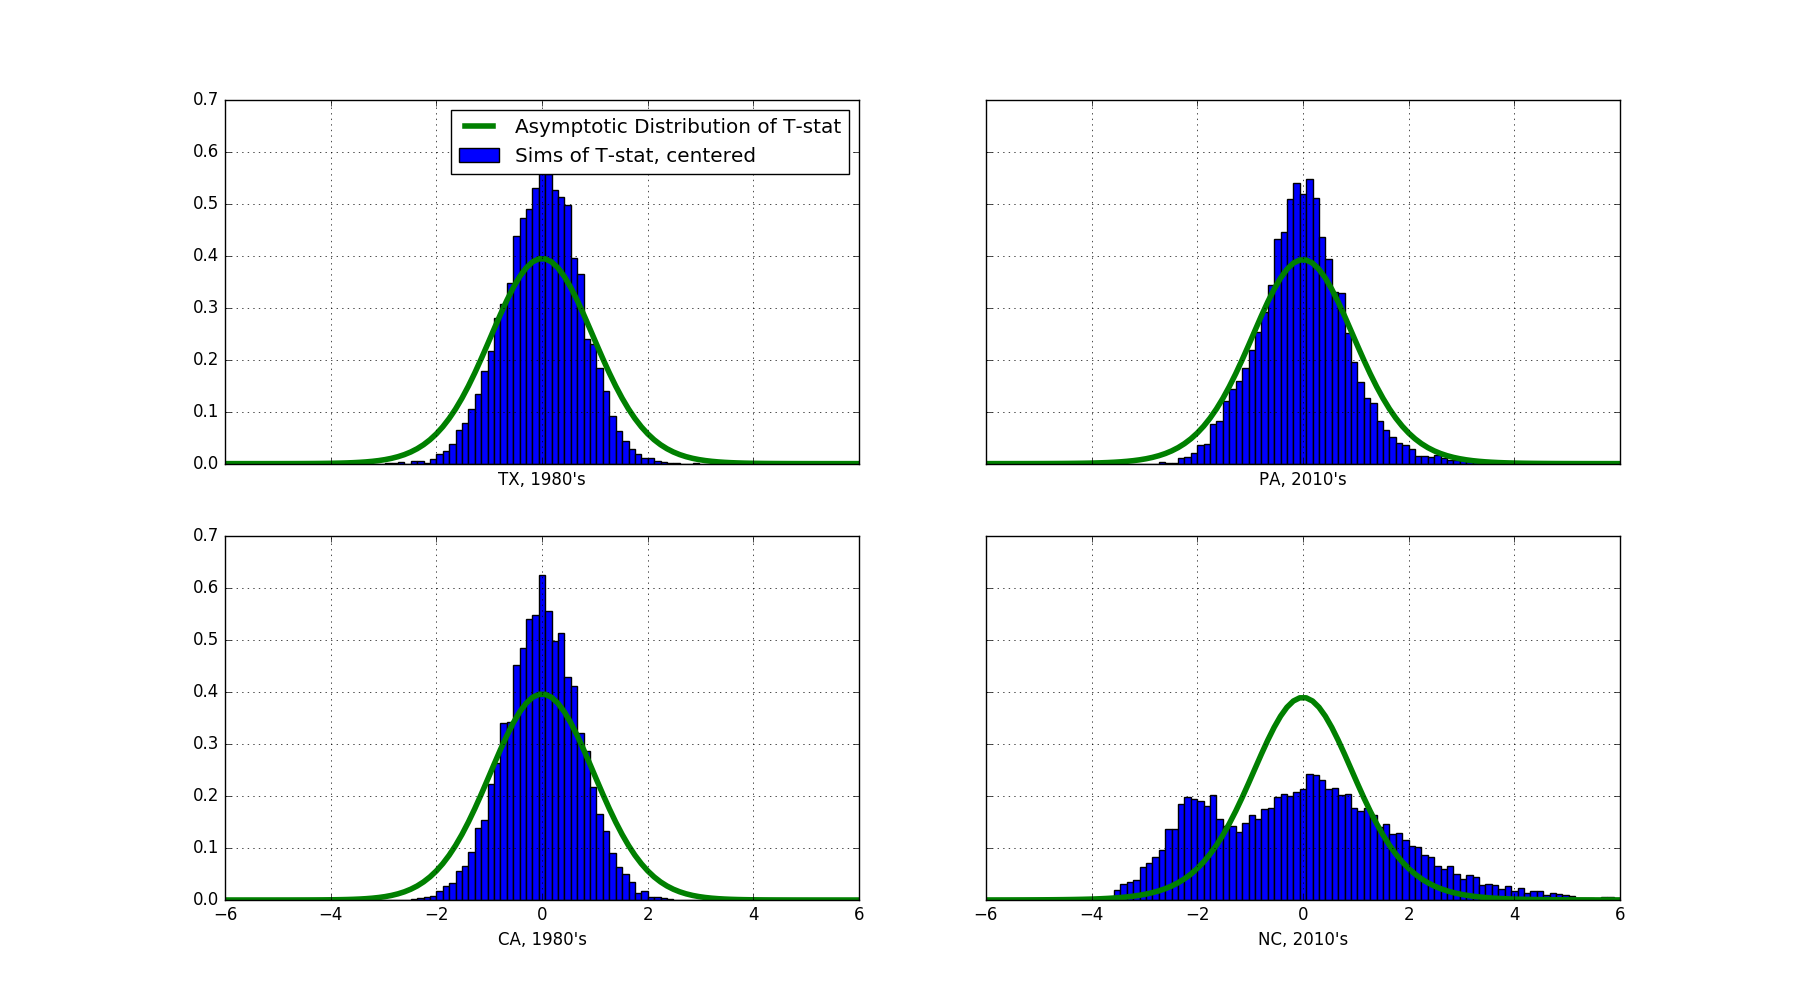
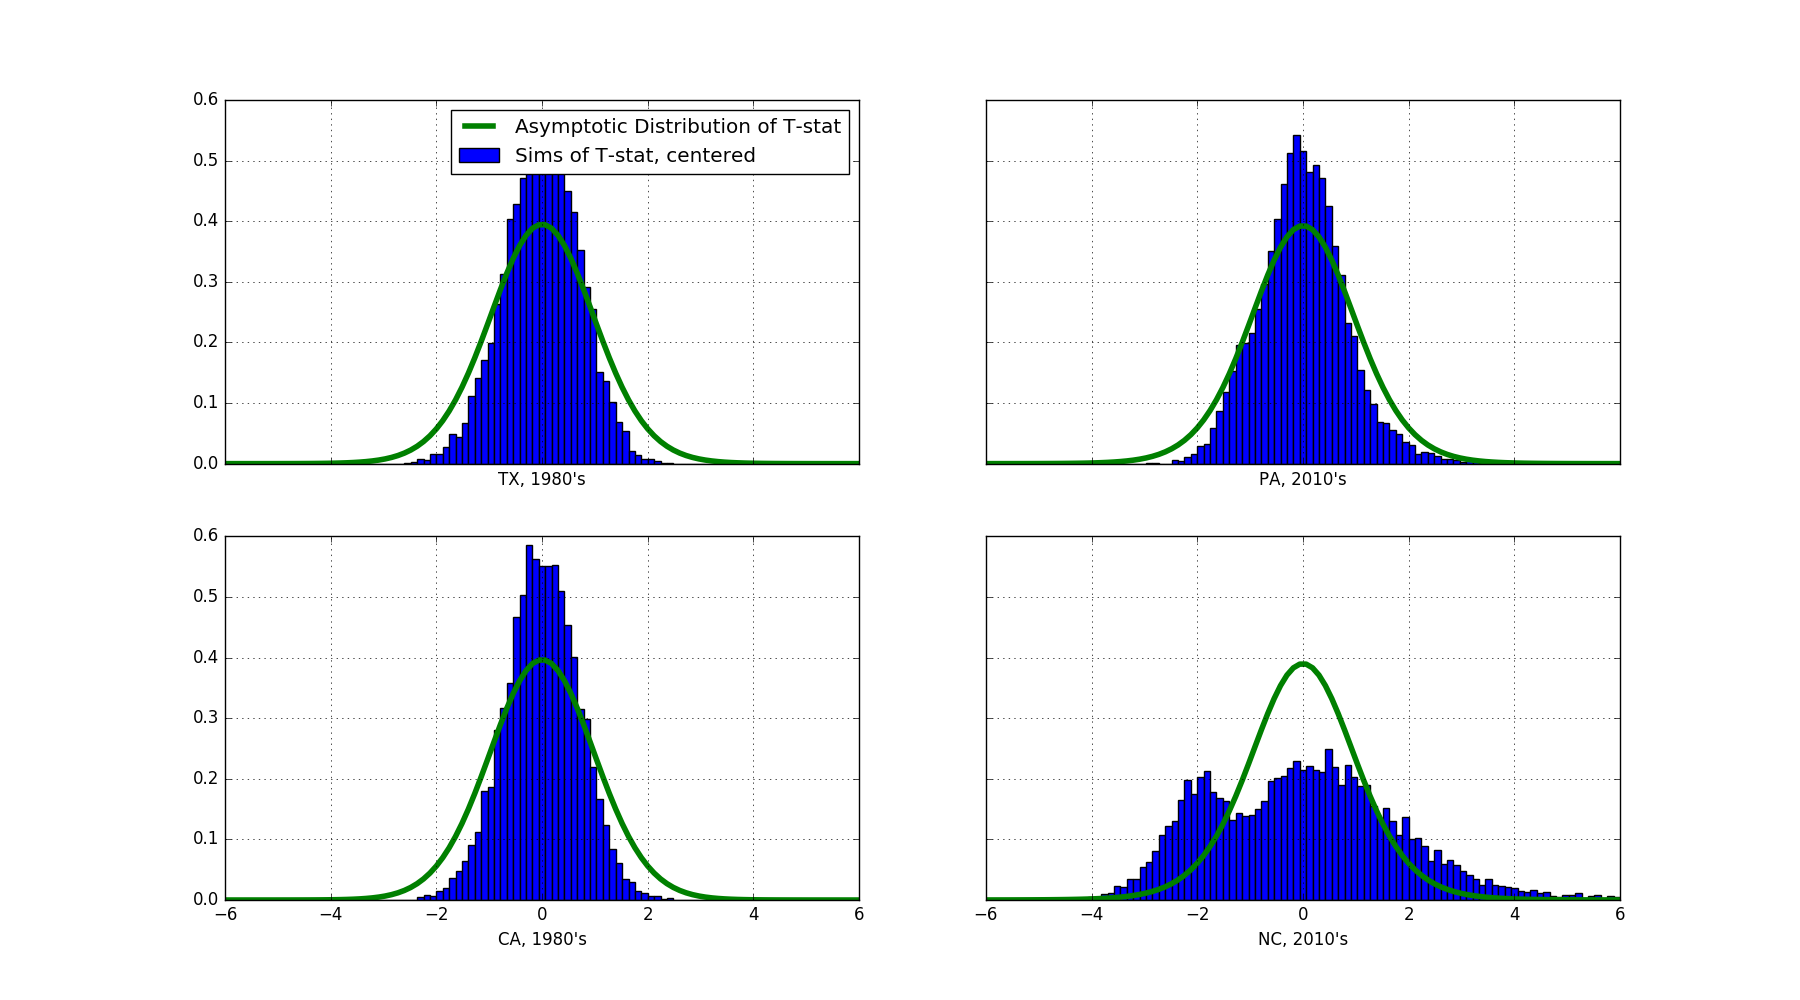
tinkering with district partisanship likelihoods

diff --git a/ELJ/ComputeExpectedMM.py b/ELJ/ComputeExpectedMM.py
@@ -8,7 +8,7 @@ import os
 import us
 from scipy import stats
 
-from ELJcommon import getDemVotesAndSeats,get_spasym,get_asymFromPct,getExpAsym,varWithShrinkage,betaMOM,list2df,colorBins,getExpMMandT
+from ELJcommon import getDemVotesAndSeats,get_spasym,get_asymFromPct,getExpAsym,varWithShrinkage,betaMOM,list2df,colorBins,getExpMMandT,convolveBetas
 
 states = us.states.STATES
 abbr2name = us.states.mapping('abbr', 'name')
@@ -39,6 +39,7 @@ fig1, ((axt1, axt2), (axt3, axt4)) = plt.subplots(2, 2, sharex="col", sharey=Tru
 fig2, ((axs1, axs2), (axs3, axs4)) = plt.subplots(2, 2, sharex="col", sharey=True,figsize=(18,10))
 
 fig3, axh = plt.subplots(1,1)
+fig4, ((axl1, axl2), (axl3, axl4)) = plt.subplots(2, 2, sharex="col", sharey=True,figsize=(18,10))
 
 for cnm,cyc in zip(cnames,cycles):
     dfCycle      = dataAB[dataAB["cycle"]==cnm]
@@ -83,6 +84,13 @@ for cnm,cyc in zip(cnames,cycles):
                 axt1.legend()
                 axt1.set_xlabel("TX, 1980's")
                 axt1.grid()
+
+                x,l,mean,stdv,skew = convolveBetas(betaParams)
+                print "TX",mean,stdv,skew
+                axl1.plot(x,l,linewidth=4)
+                axl1.legend()
+                axl1.set_xlabel("TX, 1980's")
+                axl1.grid()
             if abbr == "CA" and cnm == 1980:
                 N, bins, patches = axs3.hist(expMM-mn,bins=binsMM,normed=1.)
                 axs3.plot(binsMM,stats.norm.pdf(binsMM,scale=st),linewidth=4)
@@ -95,6 +103,13 @@ for cnm,cyc in zip(cnames,cycles):
                 #axt3.plot(binsMM,stats.norm.pdf(binsMM,scale=stA))
                 axt3.set_xlabel("CA, 1980's")
                 axt3.grid()
+
+                x,l,mean,stdv,skew = convolveBetas(betaParams)
+                print "CA",mean,stdv,skew
+                axl3.plot(x,l,linewidth=4)
+                axl3.legend()
+                axl3.set_xlabel("CA, 1980's")
+                axl3.grid()
             if abbr == "PA" and cnm == 2010:
                 N, bins, patches = axs2.hist(expMM-mn,bins=binsMM,normed=1.)
                 axs2.plot(binsMM,stats.norm.pdf(binsMM,scale=st),linewidth=4)
@@ -108,6 +123,13 @@ for cnm,cyc in zip(cnames,cycles):
                 #axt2.plot(binsMM,stats.norm.pdf(binsMM,scale=stA))
                 axt2.set_xlabel("PA, 2010's")
                 axt2.grid()
+
+                x,l,mean,stdv,skew = convolveBetas(betaParams)
+                print "PA",mean,stdv,skew
+                axl2.plot(x,l,linewidth=4)
+                axl2.legend()
+                axl2.set_xlabel("PA, 2010's")
+                axl2.grid()
             if abbr == "NC" and cnm == 2010:
                 N, bins, patches = axs4.hist(expMM-mn,bins=binsMM,normed=1.)
                 axs4.plot(binsMM,stats.norm.pdf(binsMM,scale=st),linewidth=4)
@@ -120,6 +142,13 @@ for cnm,cyc in zip(cnames,cycles):
                 #axt4.plot(binsMM,stats.norm.pdf(binsMM,scale=stA))
                 axt4.set_xlabel("NC, 2010's")
                 axt4.grid()
+
+                x,l,mean,stdv,skew = convolveBetas(betaParams)
+                print "NC",mean,stdv,skew
+                axl4.plot(x,l,linewidth=4)
+                axl4.legend()
+                axl4.set_xlabel("NC, 2010's")
+                axl4.grid()
             dataMM.append([abbr,cnm,np.mean(expMM),st,stA,p5,p5A,p5d])
 
 
@@ -129,6 +158,7 @@ dataMM = pd.read_csv(os.path.join(dataDir,"expMM.csv"))
 
 fig1.savefig(os.path.join(figDir,"80vs10T.png"))
 fig2.savefig(os.path.join(figDir,"80vs10MM.png"))
+fig4.savefig(os.path.join(figDir,"80vs10DL.png"))
 
 fig = plt.figure()
 ax  = fig.add_subplot(111)

diff --git a/ELJ/ELJcommon.py b/ELJ/ELJcommon.py
@@ -98,6 +98,19 @@ def getExpAsym(params,nsims=10000):
     asym    = np.apply_along_axis(get_asymFromCenteredPct,0,results)
     return asym
 
+def convolveBetas(params,npoints=1000):
+    x = np.linspace(0.,1.,npoints)
+    a,b = params[0]
+    likelihood = stats.beta.pdf(x,a,b)
+    for a,b in params[1:]:
+        #likelihood = np.convolve(likelihood,stats.beta.pdf(x,a,b),mode="same")
+        likelihood += stats.beta.pdf(x,a,b)
+    #normalize
+    likelihood = likelihood/float(len(params))
+    mean = np.trapz(x*likelihood,x=x)
+    stdv = np.sqrt(np.trapz((x-mean)**2*likelihood,x=x))
+    skew = np.trapz((x-mean)**3*likelihood,x=x)/stdv**3
+    return x,likelihood,mean,stdv,skew
 def meanWithShrinkage(x,shrinkMean):
     N = float(len(x))
     if N == 0.: return shrinkMean
